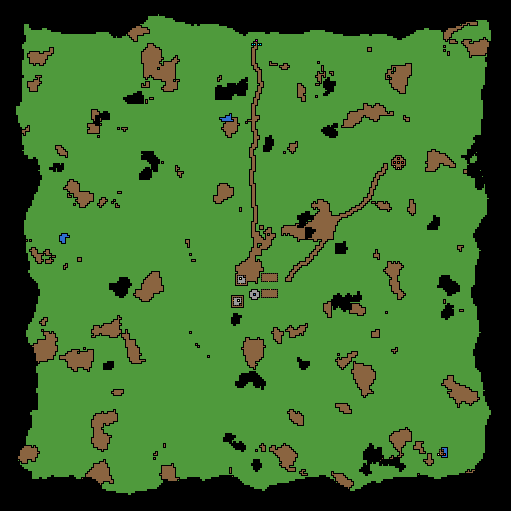
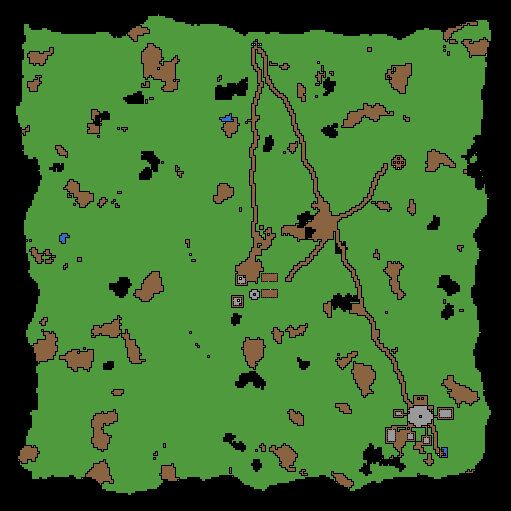
the starter town in the wilds, by Jeff's pond and shack (his ask: "put the town in the wilds, i'll do touch ups with build"): a stone square worn to dirt at its corners with the well in it and the starts round the well; economy's town_store north of it (its "store" stockpile place); a forge (buildin

diff --git a/CHANGELOG.md b/CHANGELOG.md
@@ -6,6 +6,10 @@ top section as the release notes.
 
 ## Unreleased
 
+- A town in the wilds, by the pond and the shack: a stone square with a
+  well, the town's store (its depot and shop counter), a forge and a
+  kitchen, three homes, lanes between them, and a dirt road north to the
+  castle. New players start in the square.
 - Builder mode knows the town's store: Claude stamps one (yard, depot, shop counter)
   when asked, and you and Claude are told when a change leaves it wrong (a counter
   outside the store, a store with no depot).
